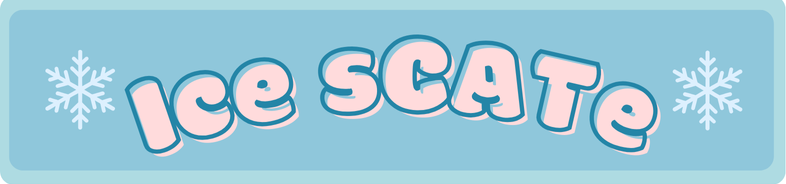
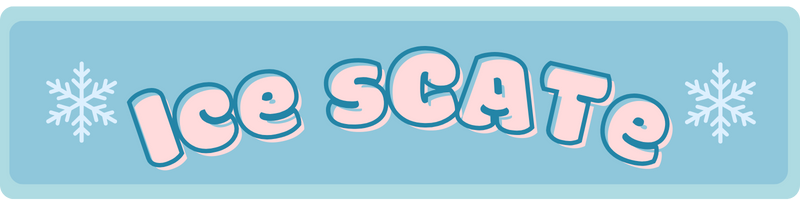
condicion 10 oleadas

Changed region(s): [[0.0611, 0.1902, 0.9466, 0.8424], [0.0, 0.0, 1.0, 0.1359], [0.0, 0.9783, 1.0, 1.0]]

diff --git a/project/src/our_scripts/components/ui/HUD.cpp b/project/src/our_scripts/components/ui/HUD.cpp
@@ -6,8 +6,8 @@
 HUD::HUD():_camera(nullptr),_wm(nullptr)
 {
 	_event_textures = std::vector<Texture*>(int(EVENTS_MAX)+1);
-	_event_textures[int(ICE_SKATE)] = (&sdlutils().images().at("event_letters")); 
-	_event_textures[STAR_SHOWER] = &sdlutils().images().at("event_letters");
+	_event_textures[int(ICE_SKATE)] = (&sdlutils().images().at("event_ice_skate")); 
+	_event_textures[STAR_SHOWER] = &sdlutils().images().at("event_star_shower");
 }
 
 HUD::~HUD()

diff --git a/project/src/game/scenes/RewardScene.cpp b/project/src/game/scenes/RewardScene.cpp
@@ -519,6 +519,7 @@ void RewardScene::create_reward_selected_button(const GameStructs::ButtonPropert
             //heal a 50%
             int hn = phealth->getMaxHealth() * 5 / 10;
             phealth->heal(hn);
+            _lr->swap_textures();
         }
         //we only select a reward if previously we have chosen something
         else if (_lr != nullptr && !_selected) {

diff --git a/project/src/game/Game.cpp b/project/src/game/Game.cpp
@@ -95,7 +95,7 @@ bool Game::init() {
 	
 	// fullscreen mode
 	// HACK: uncomment this to fullscreen
-	SDL_SetWindowFullscreen(sdlutils().window(), 0);//SDL_WINDOW_FULLSCREEN_DESKTOP);
+	SDL_SetWindowFullscreen(sdlutils().window(), SDL_WINDOW_FULLSCREEN_DESKTOP); //0 for non-full screen mode
 	
 	initGame();
 

diff --git a/project/src/our_scripts/card_system/PlayableCards.cpp b/project/src/our_scripts/card_system/PlayableCards.cpp
@@ -119,7 +119,7 @@ void Kunai::on_play(Deck& d, const Vector2D* player_position, const Vector2D* ta
 	bp.width = 2.3;
 	bp.life_time = 2;
 	bp.sprite_key = "p_kunai";
-	bp.damage = 2;
+	bp.damage = 5;
 	bp.pierce_number = INT_MAX;
 	bp.collision_filter = GameStructs::collide_with::enemy;
 	

diff --git a/project/src/our_scripts/components/WaveManager.cpp b/project/src/our_scripts/components/WaveManager.cpp
@@ -289,7 +289,7 @@ void WaveManager::endwave()
     player_movement_controller->total_movement = 0;
 
 #endif
-    if (_currentWave == 2) {
+    if (_currentWave == 9) {
         Game::Instance()->change_Scene(Game::State::VICTORY);
     }
     else {
